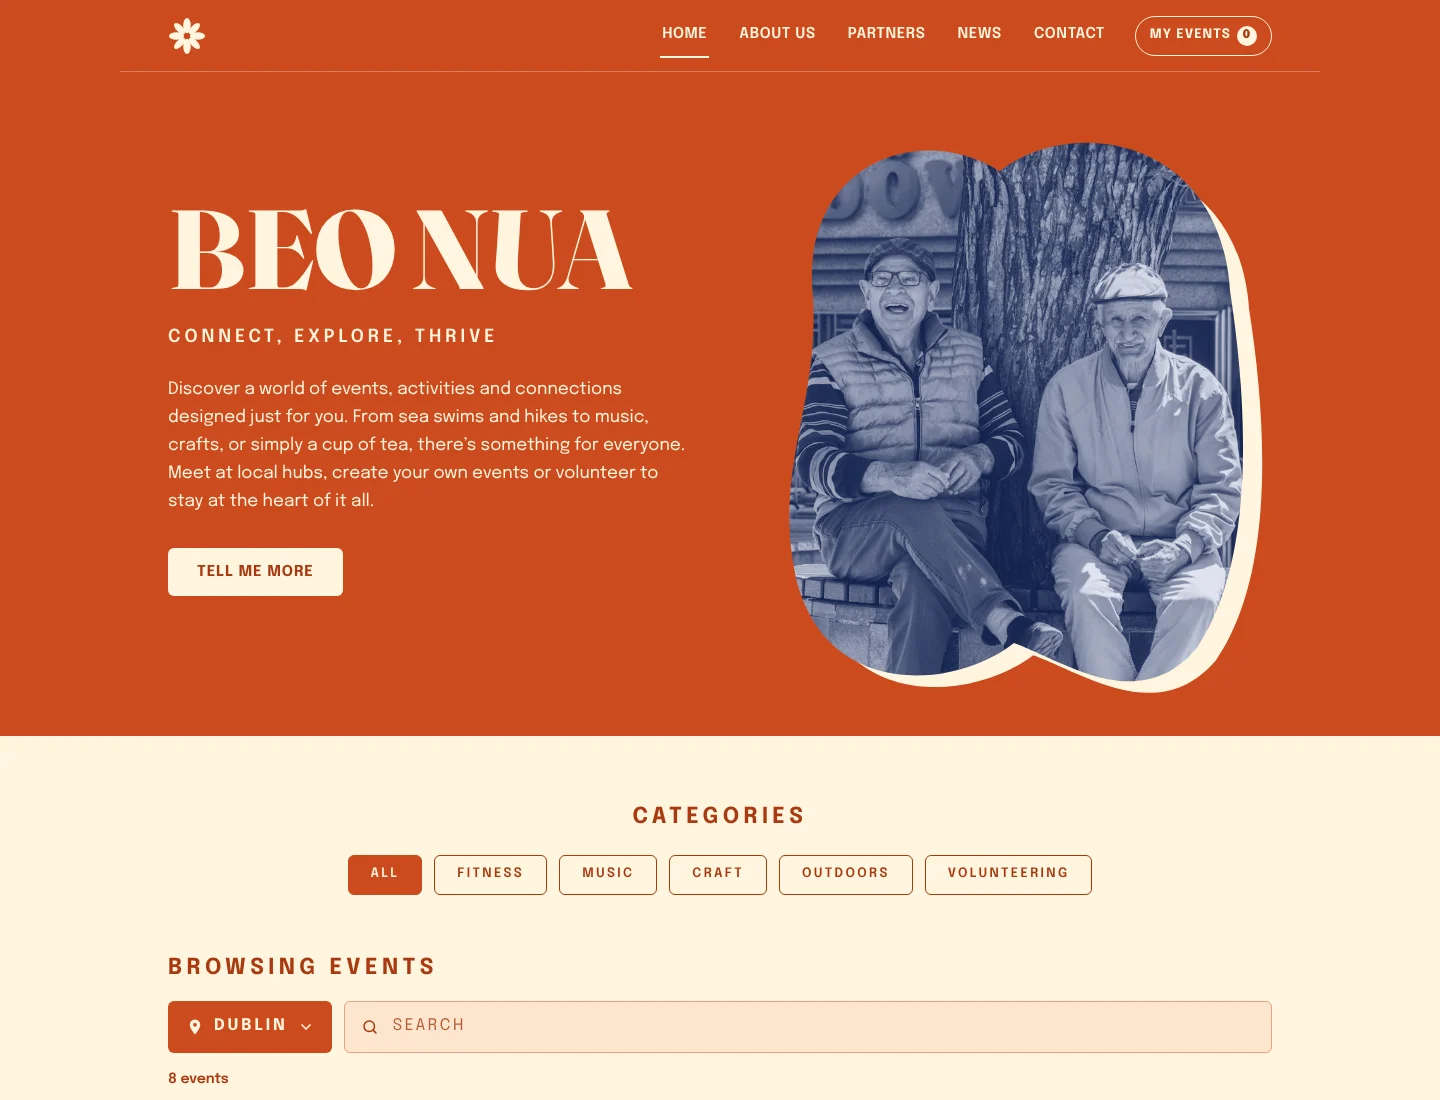
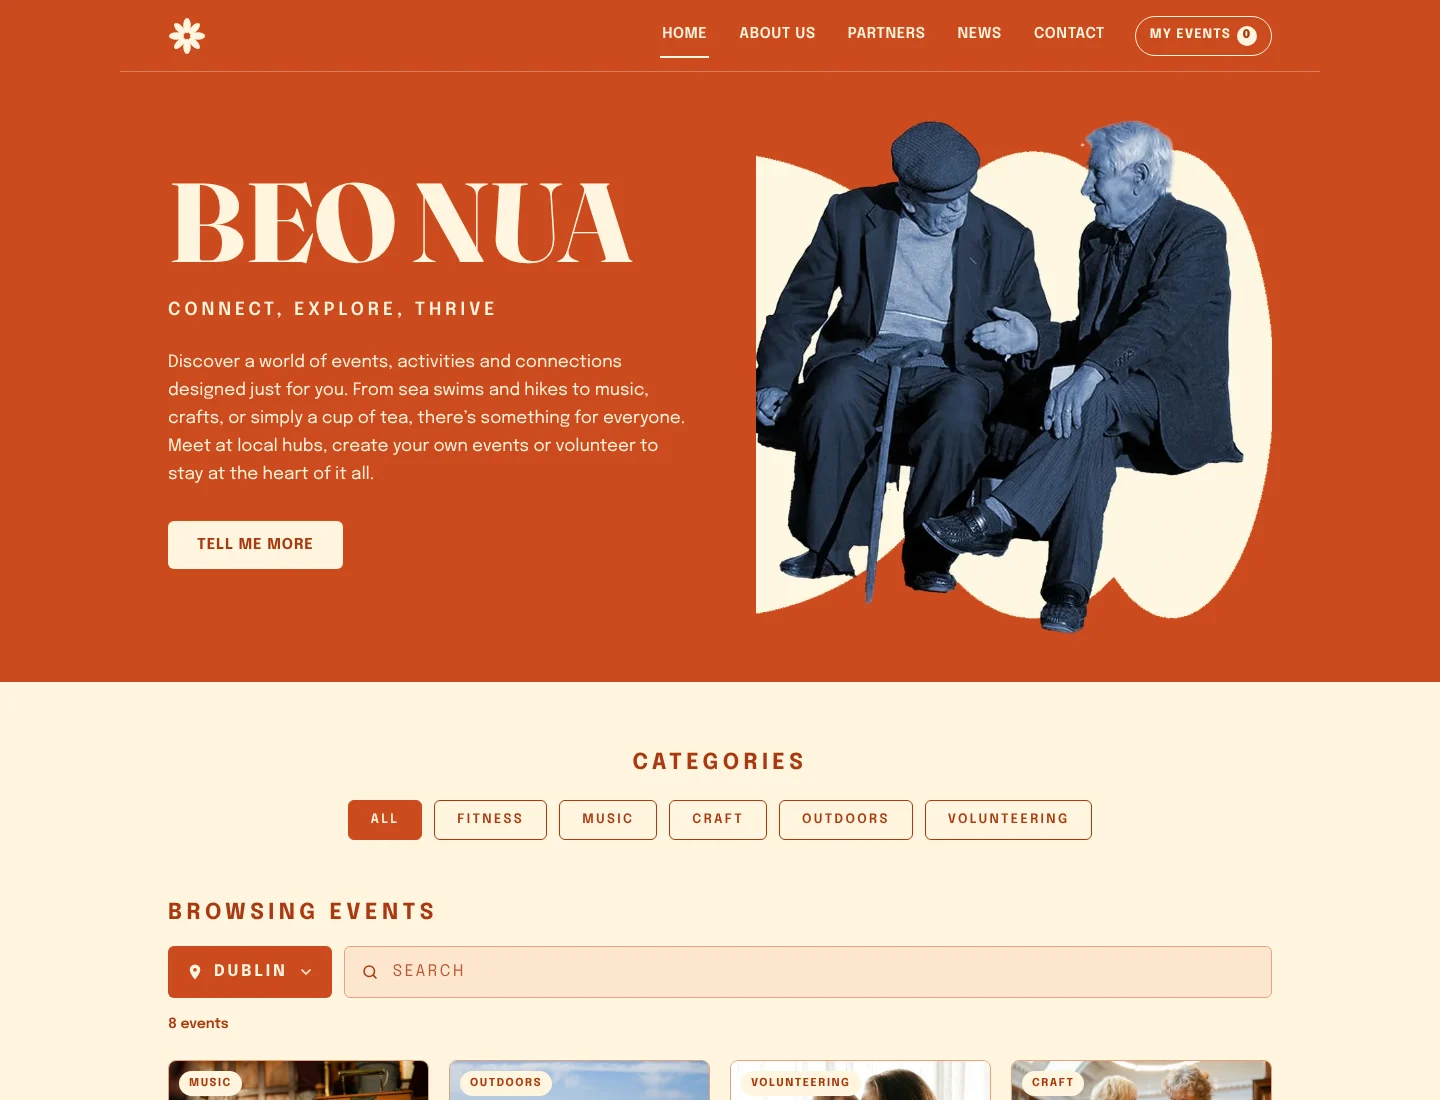
Beo Nua: original hero men, trifold booklet, prototype link, team credit
Claude-Session: https://claude.ai/code/session_01SEotxCtiqrujWHDmSsEHZG

diff --git a/index.html b/index.html
@@ -1420,6 +1420,23 @@ footer { border-top: 1px solid var(--line); }
 /* FEATURE: screens changing on the left, what and why on the right */
 .feat { display: grid; grid-template-columns: minmax(0, 1.5fr) minmax(0, 1fr); gap: clamp(24px, 3.4vw, 48px); align-items: center; padding-top: 16px; }
 .feat .fade-img { background: none; }
+.feat.feat-full { grid-template-columns: minmax(0, 1fr); gap: 28px; }
+.feat-full .feat-text { grid-template-columns: minmax(0, 1.1fr) minmax(0, 1fr) minmax(0, 1fr); gap: clamp(20px, 3vw, 40px); align-items: start; }
+.feat-full .feat-text .cs-h3 { margin: 0; }
+.bk { position: relative; aspect-ratio: 16 / 9; perspective: 2600px; overflow: hidden; border-radius: 6px; cursor: pointer; background: radial-gradient(60% 70% at 50% 50%, rgba(255, 250, 244, .9) 0%, rgba(255, 250, 244, 0) 70%), linear-gradient(125deg, #F2A47F 0%, #F7CDB4 30%, #F6E2D6 50%, #DCD9F2 72%, #AEB3E6 100%); --l: 180deg; --r: -180deg; --flip: 0deg; }
+.bk-book { position: absolute; left: 15%; top: 6%; width: 70%; aspect-ratio: 1560 / 1100; transform-style: preserve-3d; transform: rotateY(var(--flip)); transition: transform 1.2s cubic-bezier(.6, 0, .25, 1); }
+.bk-p { position: absolute; top: 0; width: 33.334%; height: 100%; transform-style: preserve-3d; transition: transform 1.1s cubic-bezier(.6, 0, .25, 1); }
+.bk-l { left: 0; transform-origin: 100% 50%; transform: translateZ(2px) rotateY(var(--l)); }
+.bk-m { left: 33.333%; }
+.bk-r { left: 66.666%; transform-origin: 0 50%; transform: translateZ(1px) rotateY(var(--r)); }
+.bk-f, .bk-b { position: absolute; inset: 0; background-size: 100% 100%; backface-visibility: hidden; -webkit-backface-visibility: hidden; box-shadow: 0 0 0 1px rgba(19, 63, 65, .06); }
+.bk-b { transform: rotateY(180deg); }
+.bk-l .bk-f, .bk-l .bk-b, .bk-r .bk-f, .bk-r .bk-b { transition: visibility 0s .55s; }
+.bk.lf .bk-l .bk-f, .bk:not(.lf) .bk-l .bk-b, .bk.rf .bk-r .bk-f, .bk:not(.rf) .bk-r .bk-b { visibility: hidden; }
+.bk-l .bk-f { box-shadow: inset -14px 0 18px -16px rgba(0, 0, 0, .35); } .bk-r .bk-f { box-shadow: inset 14px 0 18px -16px rgba(0, 0, 0, .35); }
+.bk-shadow { position: absolute; left: 50%; bottom: 3%; width: 26%; height: 5%; transform: translateX(-50%); border-radius: 50%; background: rgba(60, 30, 20, .28); filter: blur(14px); transition: width 1.1s cubic-bezier(.6, 0, .25, 1); }
+.bk.open .bk-shadow { width: 74%; }
+@media (max-width: 760px) { .feat-full .feat-text { grid-template-columns: minmax(0, 1fr); } .bk { aspect-ratio: 4 / 3; } .bk-book { left: 4%; width: 92%; top: 50%; translate: 0 -50%; } }
 .feat-media .fade-img { width: 100%; }
 .feat-text { display: grid; gap: 16px; align-content: center; }
 .feat-text .cs-h3 { font-size: clamp(24px, 2.4vw, 30px); }
@@ -2015,7 +2032,7 @@ function beoNuaBlocks() {
     { type: "bncover" },
 
     { type: "section", label: "Features", heading: "How each insight became part of the service." },
-    { type: "feat", title: "A pack that arrives on its own", screens: [p("brochure-front"), p("brochure-back")],
+    { type: "feat", title: "A pack that arrives on its own", booklet: true, screens: [p("brochure-front"), p("brochure-back")],
       what: "A celebration pack, sent automatically at 66 or on request, with local hubs and a QR code to the website.",
       why: "Nobody reaches out, so the service reaches out first." },
     { type: "feat", title: "Every local event in one place", live: "bnbrowse", screens: [v("browse") + ".webp"],
@@ -2562,9 +2579,9 @@ const PROJECTS = [
     theme: "bn",
     role: ["Service Designer /", "UX/UI Designer"],
     timeline: ["4 weeks"],
-    team: ["Rebecca, Shannen", "and Abbie"],
+    team: ["Rebecca, Shannen and Abbie,", "in collaboration with the", "Department of Public Expenditure"],
     skills: ["Research", "Service Design", "Branding", "Web Prototyping"],
-    partner: ["Department of Public", "Expenditure"],
+    proto: "bnlive",
     blocks: beoNuaBlocks(),
   },
   {
@@ -3073,8 +3090,8 @@ const BLOCKS = {
   embed: b => `<a class="cs-embed" href="${esc(b.href)}" target="_blank" rel="noopener">
       <span class="cs-embed-bar"><span class="cs-link-ic" aria-hidden="true"><svg viewBox="0 0 38 57"><path fill="#1ABCFE" d="M19 28.5a9.5 9.5 0 1 1 19 0 9.5 9.5 0 0 1-19 0z"/><path fill="#0ACF83" d="M0 47.5A9.5 9.5 0 0 1 9.5 38H19v9.5a9.5 9.5 0 1 1-19 0z"/><path fill="#FF7262" d="M19 0v19h9.5a9.5 9.5 0 1 0 0-19H19z"/><path fill="#F24E1E" d="M0 9.5A9.5 9.5 0 0 0 9.5 19H19V0H9.5A9.5 9.5 0 0 0 0 9.5z"/><path fill="#A259FF" d="M0 28.5A9.5 9.5 0 0 0 9.5 38H19V19H9.5A9.5 9.5 0 0 0 0 28.5z"/></svg></span><span class="cs-embed-name"><b>${esc(b.title)}</b><small>FigJam board</small></span><span class="cs-embed-open">Open in Figma ↗</span></span>
       <span class="cs-embed-img">${img(b.image, b.title)}</span></a>`,
-  feat: b => `<div class="feat">
-      <div class="feat-media">${b.video ? `<div class="live on"><video autoplay muted loop playsinline poster="${esc(b.video)}.webp" style="position:absolute;inset:0;width:100%;height:100%;object-fit:cover"><source src="${esc(b.video)}.webm" type="video/webm"><source src="${esc(b.video)}.mp4" type="video/mp4"></video></div>` : b.live ? `<div class="live" data-live="${b.live}"><img class="live-poster" src="${esc(b.screens[0])}" alt="${esc(b.title)}" loading="lazy"><span class="live-cur" aria-hidden="true"><svg viewBox="0 0 24 24"><path d="M4 2l15 11-6.5 1.2L16 21l-3 1.3-3.4-6.8L4 20z" fill="#fff" stroke="#111" stroke-width="1.4" stroke-linejoin="round"/></svg></span></div>` : fader(b.screens.map(image => ({ image })), () => "16 / 9", true)}</div>
+  feat: b => `<div class="feat${b.booklet ? " feat-full" : ""}">
+      <div class="feat-media">${b.booklet ? booklet() : b.video ? `<div class="live on"><video autoplay muted loop playsinline poster="${esc(b.video)}.webp" style="position:absolute;inset:0;width:100%;height:100%;object-fit:cover"><source src="${esc(b.video)}.webm" type="video/webm"><source src="${esc(b.video)}.mp4" type="video/mp4"></video></div>` : b.live ? `<div class="live" data-live="${b.live}"><img class="live-poster" src="${esc(b.screens[0])}" alt="${esc(b.title)}" loading="lazy"><span class="live-cur" aria-hidden="true"><svg viewBox="0 0 24 24"><path d="M4 2l15 11-6.5 1.2L16 21l-3 1.3-3.4-6.8L4 20z" fill="#fff" stroke="#111" stroke-width="1.4" stroke-linejoin="round"/></svg></span></div>` : fader(b.screens.map(image => ({ image })), () => "16 / 9", true)}</div>
       <div class="feat-text">${txt(b.title, "h3", "cs-h3")}
         <div><div class="cs-label">What it is</div><p>${esc(b.what)}</p></div>
         <div><div class="cs-label">Why</div><p>${esc(b.why)}</p></div></div></div>`,
@@ -3151,7 +3168,7 @@ function projectView(p) {
           <h1>${esc(p.title)}</h1>
         </header>
         <div class="hero-img">${img(p.image, p.title)}${p.id === "cortexus" ? cxAnim() : p.id === "beo-nua" ? bnAnim() : ""}</div>
-        ${p.proto ? `<a class="proto-link" href="#" data-proto="${p.proto}"><span class="label">Interactive prototype</span><span class="proto-go fill-btn">Try Cortexus for yourself <svg viewBox="0 0 24 24" aria-hidden="true"><path d="M7 17 17 7M9 7h8v8" fill="none" stroke="currentColor" stroke-width="2" stroke-linecap="round" stroke-linejoin="round"/></svg></span></a>` : ""}
+        ${p.proto ? `<a class="proto-link" href="#" data-proto="${p.proto}"><span class="label">Interactive prototype</span><span class="proto-go fill-btn">Try ${esc(p.title)} for yourself <svg viewBox="0 0 24 24" aria-hidden="true"><path d="M7 17 17 7M9 7h8v8" fill="none" stroke="currentColor" stroke-width="2" stroke-linecap="round" stroke-linejoin="round"/></svg></span></a>` : ""}
         <dl class="meta">
           <div><dt class="label">Role</dt><dd>${list(p.role)}</dd></div>
           <div><dt class="label">Timeline</dt><dd>${list(p.timeline)}</dd></div>
@@ -3710,6 +3727,23 @@ const pc = (x, y, w, h) => `left:${x / 16}%;top:${y / 8.2}%;width:${w / 16}%;hei
 const CX_SETS = [["iconPhaseGermination.png", "iconPhaseSporulation.png", "iconPhaseMyceliation.png", "iconPhaseNecrosis.png"], ["icon2PhaseGermination.webp", "icon2PhaseSporulation.webp", "icon2PhaseMyceliation.webp", "icon2PhaseNecrosis.webp"], ["icon3PhaseGermination.webp", "icon3PhaseMyceliation.webp", "icon3PhaseSporulation.webp", "icon3PhaseNecrosis.webp"], ["icon4PhaseGermination.png", "icon4PhaseSporulation.png", "icon4PhaseMyceliation.png", "icon4PhaseNecrosis.png"]];
 const CX_ROWS = [176, 262, 343, 430], CX_LINES = [219, 306, 392, 479], CX_BADGES = [187, 274, 360, 447];
 const CX_EKG = "M0,18 L20,18 L25,10 L30,26 L35,14 L40,20 L45,18 L70,18 L75,10 L80,26 L85,14 L90,20 L95,18 L120,18 L125,10 L130,26 L135,14 L140,20 L145,18 L170,18 L175,10 L180,26 L185,14 L190,20 L195,18 L220,18";
+/* BOOKLET: the Beo Nua pack as a real trifold that unfolds, closes and turns over */
+const BK = (f, b) => `<div class="bk-f" style="background-image:url(bn/bk/${f}.webp)"></div><div class="bk-b" style="background-image:url(bn/bk/${b}.webp)"></div>`;
+const booklet = () => `<div class="bk" data-bk role="img" aria-label="The Beo Nua pack, a trifold booklet, unfolding to show the inside and turning over to show the back"><div class="bk-shadow"></div><div class="bk-book"><div class="bk-p bk-l">${BK("d", "c")}</div><div class="bk-p bk-m">${BK("e", "b")}</div><div class="bk-p bk-r">${BK("f", "a")}</div></div></div>`;
+let bkTimers = [];
+function setupBooklets() {
+  bkTimers.forEach(clearTimeout); bkTimers = [];
+  const STEPS = [[180, -180, 0, 2600], [0, -180, 0, 2400], [0, 0, 0, 4600], [0, -180, 0, 1300], [180, -180, 0, 1500], [180, -180, 180, 3000], [180, -180, 0, 1600]];
+  app.querySelectorAll("[data-bk]").forEach(el => {
+    const set = n => { const [l, r, fl] = STEPS[n]; el.style.setProperty("--l", l + "deg"); el.style.setProperty("--r", r + "deg"); el.style.setProperty("--flip", fl + "deg"); el.classList.toggle("open", l === 0); el.classList.toggle("lf", l !== 0); el.classList.toggle("rf", r !== 0); };
+    if (matchMedia("(prefers-reduced-motion: reduce)").matches) { set(2); return; }
+    let i = 0, seen = false, held = 0; set(0);
+    const next = () => { if (!el.isConnected) return; i = (i + 1) % STEPS.length; set(i); };
+    const loop = () => { if (!el.isConnected) return; const wait = STEPS[i][3]; bkTimers.push(setTimeout(() => { if (Date.now() < held) return loop(); next(); loop(); }, wait)); };
+    new IntersectionObserver((es, o) => { if (es[0].isIntersecting && !seen) { seen = true; o.disconnect(); loop(); } }, { threshold: .45 }).observe(el);
+    el.addEventListener("click", () => { held = Date.now() + 7000; next(); });
+  });
+}
 const bnAnim = () => `<div class="bnw" aria-hidden="true"><div class="bnw-bar"><span class="bnw-dots"><i></i><i></i><i></i></span><span class="bnw-url"><svg viewBox="0 0 24 24"><rect x="5" y="11" width="14" height="10" rx="2"/><path d="M8 11V8a4 4 0 0 1 8 0v3"/></svg>beonua.ie</span><span class="bnw-dots" style="visibility:hidden"><i></i><i></i><i></i></span></div><div class="live bnw-view" data-live="bnhero"><img class="live-poster" src="bn/live-desk.webp" alt=""><span class="live-cur"></span></div></div><div class="bnp" aria-hidden="true"><div class="live bnp-view" data-live="bnphone"><img class="live-poster" src="bn/live-phone.webp" alt=""><span class="live-cur"></span></div><span class="bnp-notch"></span></div>`;
 const cxAnim = () => `<div class="cxa" aria-hidden="true">
   <div class="br" style="${pc(578, 174.5, 348, 348)}">${[1, 2, 3, 4].map(n => `<img src="cx/rot/brain${n}.webp" alt=""${n === 1 ? ' class="on"' : ""}>`).join("")}</div>
@@ -3952,14 +3986,19 @@ function openProto(name) {
   const pv = document.createElement("div");
   pv.className = "pv"; pv.setAttribute("role", "dialog"); pv.setAttribute("aria-modal", "true"); pv.setAttribute("aria-label", "Cortexus prototype");
   pv.innerHTML = `<div class="pv-bar"><button type="button" class="pv-back">&larr; Back to portfolio</button><span class="label">Cortexus interactive prototype</span></div><div class="pv-tip gone" aria-live="polite"></div><div class="pv-intro"><div class="pv-intro-in"><div class="label">Before you start</div><h2>Cortexus is a desktop prototype</h2><p>It was designed and built for a laptop or desktop screen, where people use AI tools day to day. For the full experience, open it on a larger screen. On a phone, some screens may not display as intended.</p><button type="button" class="pv-start fill-btn">Start the prototype <svg viewBox="0 0 24 24" aria-hidden="true"><path d="M5 12h14m0 0-6-6m6 6-6 6" fill="none" stroke="currentColor" stroke-width="2" stroke-linecap="round" stroke-linejoin="round"/></svg></button></div></div><iframe title="Cortexus interactive prototype"></iframe>`;
-  pv.querySelector(".pv-start").addEventListener("click", () => { pv.querySelector(".pv-intro").remove(); pv.querySelector("iframe").srcdoc = doc; });
+  if (name === "bnlive") {
+    pv.setAttribute("aria-label", "Beo Nua interactive prototype"); pv.querySelector(".pv-bar .label").textContent = "Beo Nua interactive prototype";
+    pv.querySelector(".pv-intro").remove(); try { localStorage.removeItem("beonua"); } catch (x) {}
+    const fr = pv.querySelector("iframe"); fr.title = "Beo Nua interactive prototype"; fr.src = new URL("proto/bnlive/index.html#home", location.href).href;
+  }
+  pv.querySelector(".pv-start") && pv.querySelector(".pv-start").addEventListener("click", () => { pv.querySelector(".pv-intro").remove(); pv.querySelector("iframe").srcdoc = doc; });
   const close = () => { document.querySelectorAll(".pv").forEach(n => n.remove()); document.body.classList.remove("pv-open"); document.removeEventListener("keydown", esc); };
   const esc = e => { if (e.key === "Escape") close(); };
   pv.querySelector(".pv-back").addEventListener("click", close);
   document.addEventListener("keydown", esc);
   document.body.append(pv); document.body.classList.add("pv-open");
   requestAnimationFrame(() => pv.classList.add("on"));
-  pv.querySelector(".pv-start").focus();
+  (pv.querySelector(".pv-start") || pv.querySelector(".pv-back")).focus();
   const tip = pv.querySelector(".pv-tip"), frame = pv.querySelector("iframe");
   let installed = false, lastAct = Date.now(), dashDone = 0, extDone = false, simDone = false, bound = null, arrowsAt = 0;
   const vis = el => { const r = el.getBoundingClientRect(); return r.width > 0 && r.height > 0; };
@@ -4043,7 +4082,7 @@ function render() {
   const project = PROJECTS.find(p => p.id === key) || SIDE.find(p => p.id === key);
   let tab = "work";
   document.body.classList.toggle("is-project", !!project);
-  if (project) { app.innerHTML = projectView(project); setupFaders(); setupLive(); setupCx(); setupToc(); setupVideos(); setupApps(); setupDevs(); updateProgress(); }
+  if (project) { app.innerHTML = projectView(project); setupFaders(); setupLive(); setupBooklets(); setupCx(); setupToc(); setupVideos(); setupApps(); setupDevs(); updateProgress(); }
   else if (key === "fun") { location.replace("#work"); return; }
   else if (key === "about") { app.innerHTML = aboutView(); tab = "about"; setupReel(); }
   else if (key === "resume") { app.innerHTML = cvView(); tab = "resume"; showDl(); waitImgs(app); { const c = app.querySelector("[data-refs-cue]"), t = app.querySelector(".cv-refs"); if (c && t) setupCue(c, t); } }

diff --git a/proto/bnlive/index.html b/proto/bnlive/index.html
@@ -124,6 +124,7 @@ a{color:inherit}
 .hero-copy .lede{margin:24px 0 0;max-width:520px}
 .hero-copy .btn{margin-top:32px}
 .hero-art{flex:1 1 380px;min-width:0;display:flex;justify-content:center;padding-bottom:var(--s7)}
+.hero-art .men{width:100%;max-width:560px;height:auto;display:block}
 .blob{position:relative;width:100%;max-width:480px;aspect-ratio:760/900}
 .blob::before{content:"";position:absolute;inset:4% -4% -2% 4%;background:var(--cream);clip-path:url(#blobclip)}
 .blob img{position:relative;width:100%;height:100%;object-fit:cover;clip-path:url(#blobclip);filter:url(#duo)}
@@ -504,7 +505,7 @@ function vHome(){
     '<div class="hero-copy"><h1 class="h-display">BEO NUA</h1><p class="tagline">CONNECT, EXPLORE, THRIVE</p>'+
     '<p class="lede">Discover a world of events, activities and connections designed just for you. From sea swims and hikes to music, crafts, or simply a cup of tea, there’s something for everyone. Meet at local hubs, create your own events or volunteer to stay at the heart of it all.</p>'+
     '<button type="button" class="btn btn-cream" data-action="scroll" data-to="events">Tell me more</button></div>'+
-    '<div class="hero-art"><div class="blob"><img src="'+IMG.hero+'" alt="Two older men sitting on a bench, deep in conversation"></div></div>'+
+    '<div class="hero-art"><img class="men" src="hero-men.webp" alt="Two older men sitting on a bench, deep in conversation"></div>'+
   '</div></section>'+
   '<section class="band cream" id="events" aria-labelledby="cat-h"><div class="wrap">'+
     '<h2 class="eyebrow center" id="cat-h">Categories</h2>'+
